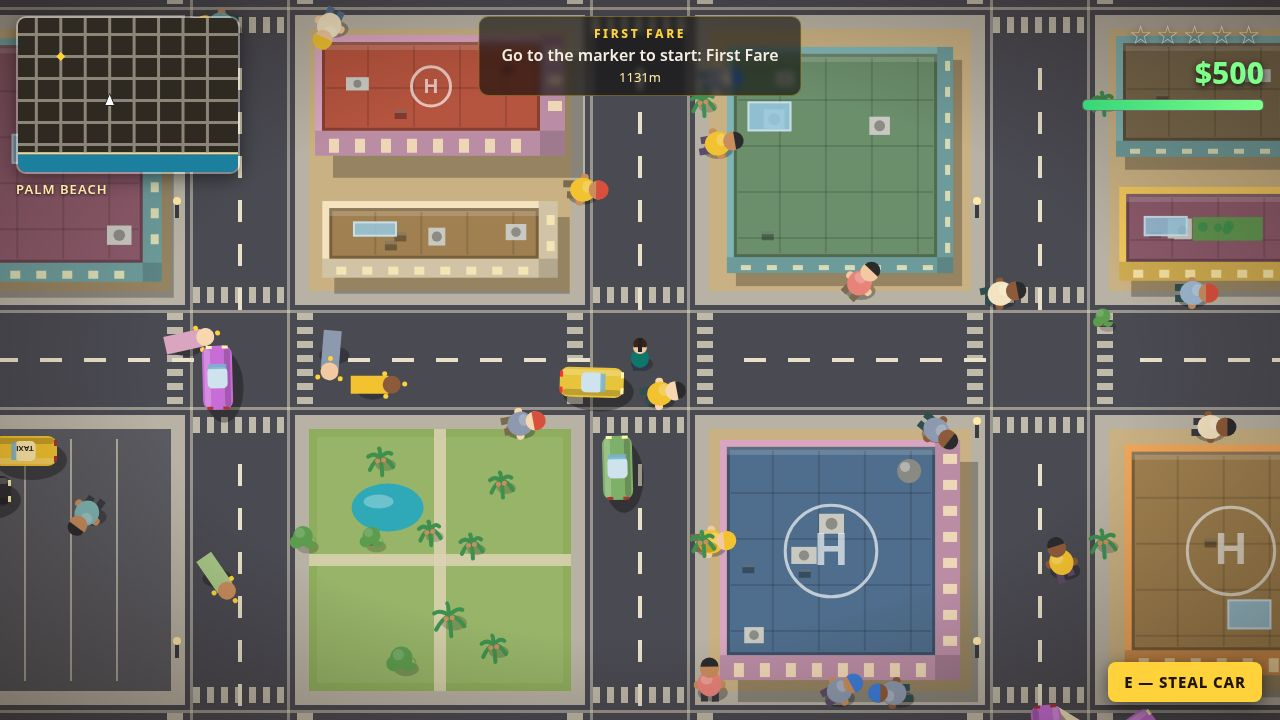
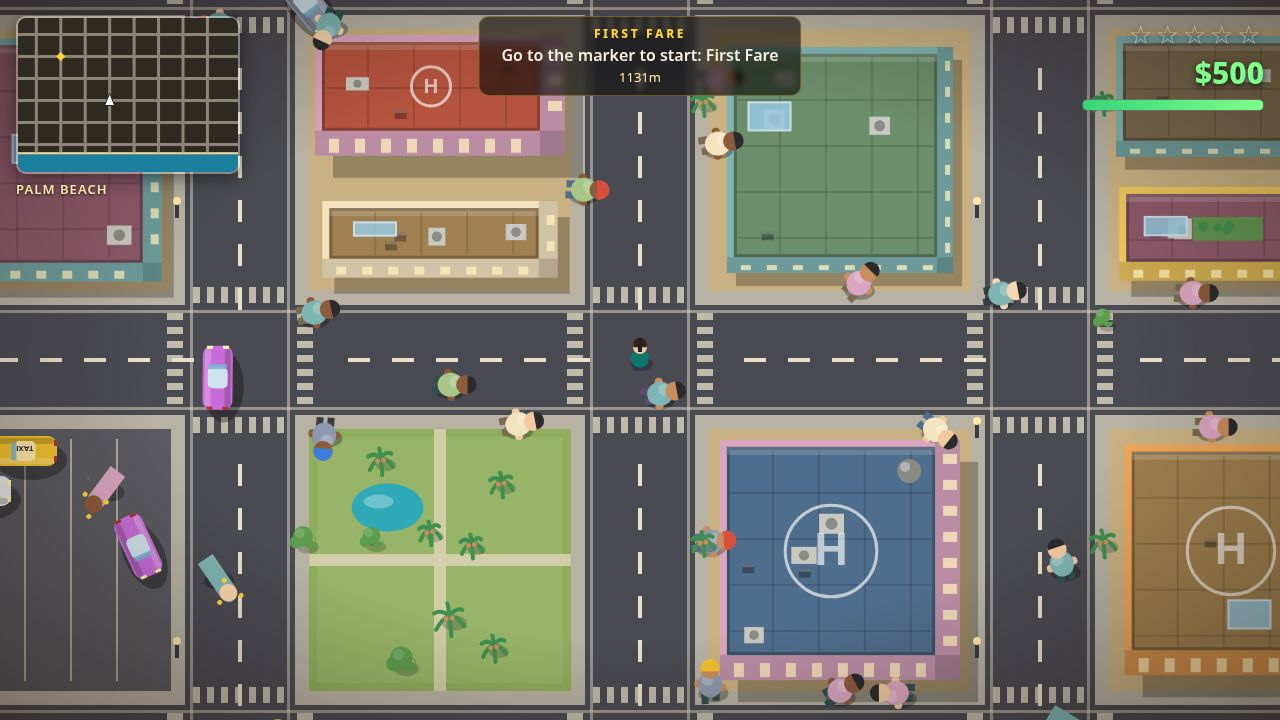
Helipads rarer: one in four towers

diff --git a/game/src/render.js b/game/src/render.js
@@ -371,9 +371,10 @@ export function createRenderer(canvas) {
         ctx.arc(tx - 4, ty - 4, 5, 0, Math.PI * 2);
         ctx.fill();
       }
-      if (b.floors >= 4 && next() < 0.5) {
-        // Helipad on the tallest towers: a ring with an H. Only about half
-        // of them have one, so the skyline does not repeat itself.
+      if (b.floors >= 4 && b.seed % 4 === 0) {
+        // Helipad on a few of the tallest towers: a ring with an H. Tied to
+        // the building's seed, so only about one in four towers has one and
+        // the skyline does not repeat itself.
         const hx = rx + rw / 2;
         const hy = ry + rh / 2;
         const hr = Math.min(rw, rh) * 0.22;
